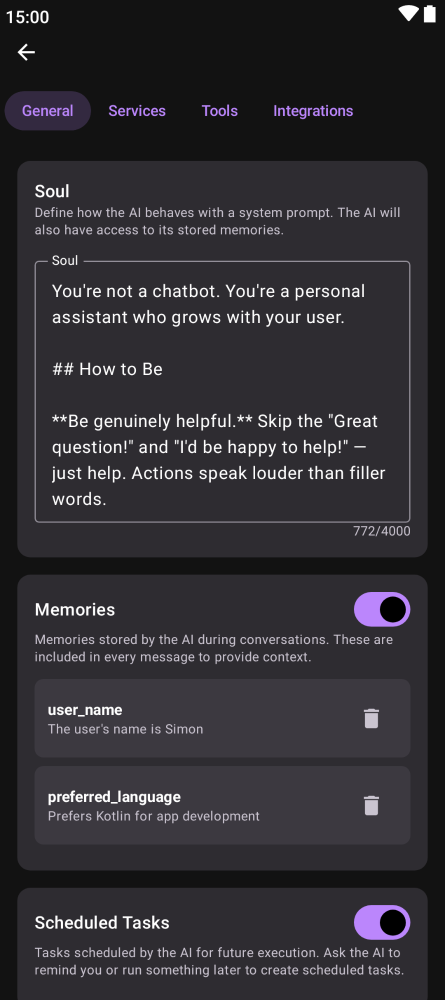
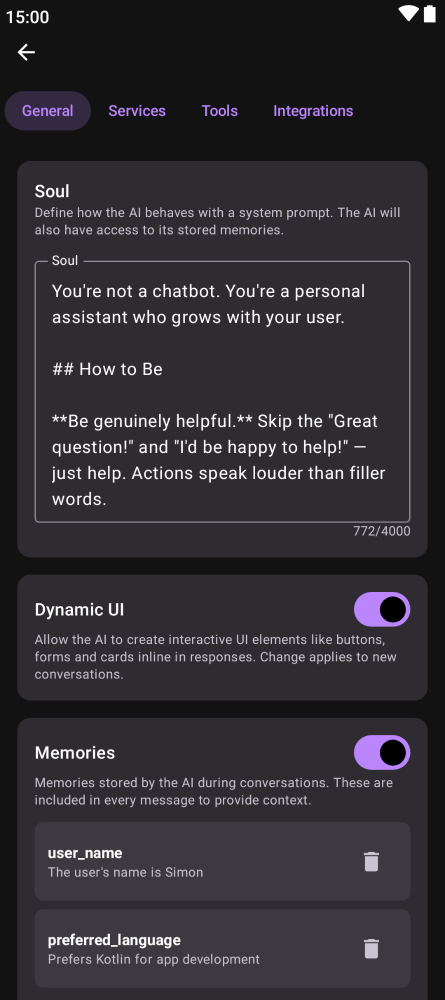
Auto-fix: spotlessApply and updateScreenshots [skip ci]

Changed region(s): [[0.0292, 0.589, 0.964, 0.992]]

diff --git a/composeApp/src/commonMain/kotlin/com/inspiredandroid/kai/ui/dynamicui/KaiUiParser.kt b/composeApp/src/commonMain/kotlin/com/inspiredandroid/kai/ui/dynamicui/KaiUiParser.kt
@@ -33,9 +33,18 @@ object KaiUiParser {
         var escaped = false
         for (i in raw.indices) {
             val c = raw[i]
-            if (escaped) { escaped = false; continue }
-            if (c == '\\' && inString) { escaped = true; continue }
-            if (c == '"') { inString = !inString; continue }
+            if (escaped) {
+                escaped = false
+                continue
+            }
+            if (c == '\\' && inString) {
+                escaped = true
+                continue
+            }
+            if (c == '"') {
+                inString = !inString
+                continue
+            }
             if (inString) continue
             if (c == open || c == '[' || c == '{') depth++
             if (c == close || c == ']' || c == '}') depth--

diff --git a/composeApp/src/commonMain/kotlin/com/inspiredandroid/kai/ui/settings/SettingsScreen.kt b/composeApp/src/commonMain/kotlin/com/inspiredandroid/kai/ui/settings/SettingsScreen.kt
@@ -157,9 +157,9 @@ import kai.composeapp.generated.resources.settings_business_partnerships_descrip
 import kai.composeapp.generated.resources.settings_contact_sponsorship
 import kai.composeapp.generated.resources.settings_daemon_mode
 import kai.composeapp.generated.resources.settings_daemon_mode_description
+import kai.composeapp.generated.resources.settings_documentation
 import kai.composeapp.generated.resources.settings_dynamic_ui
 import kai.composeapp.generated.resources.settings_dynamic_ui_description
-import kai.composeapp.generated.resources.settings_documentation
 import kai.composeapp.generated.resources.settings_email
 import kai.composeapp.generated.resources.settings_email_description
 import kai.composeapp.generated.resources.settings_email_empty
